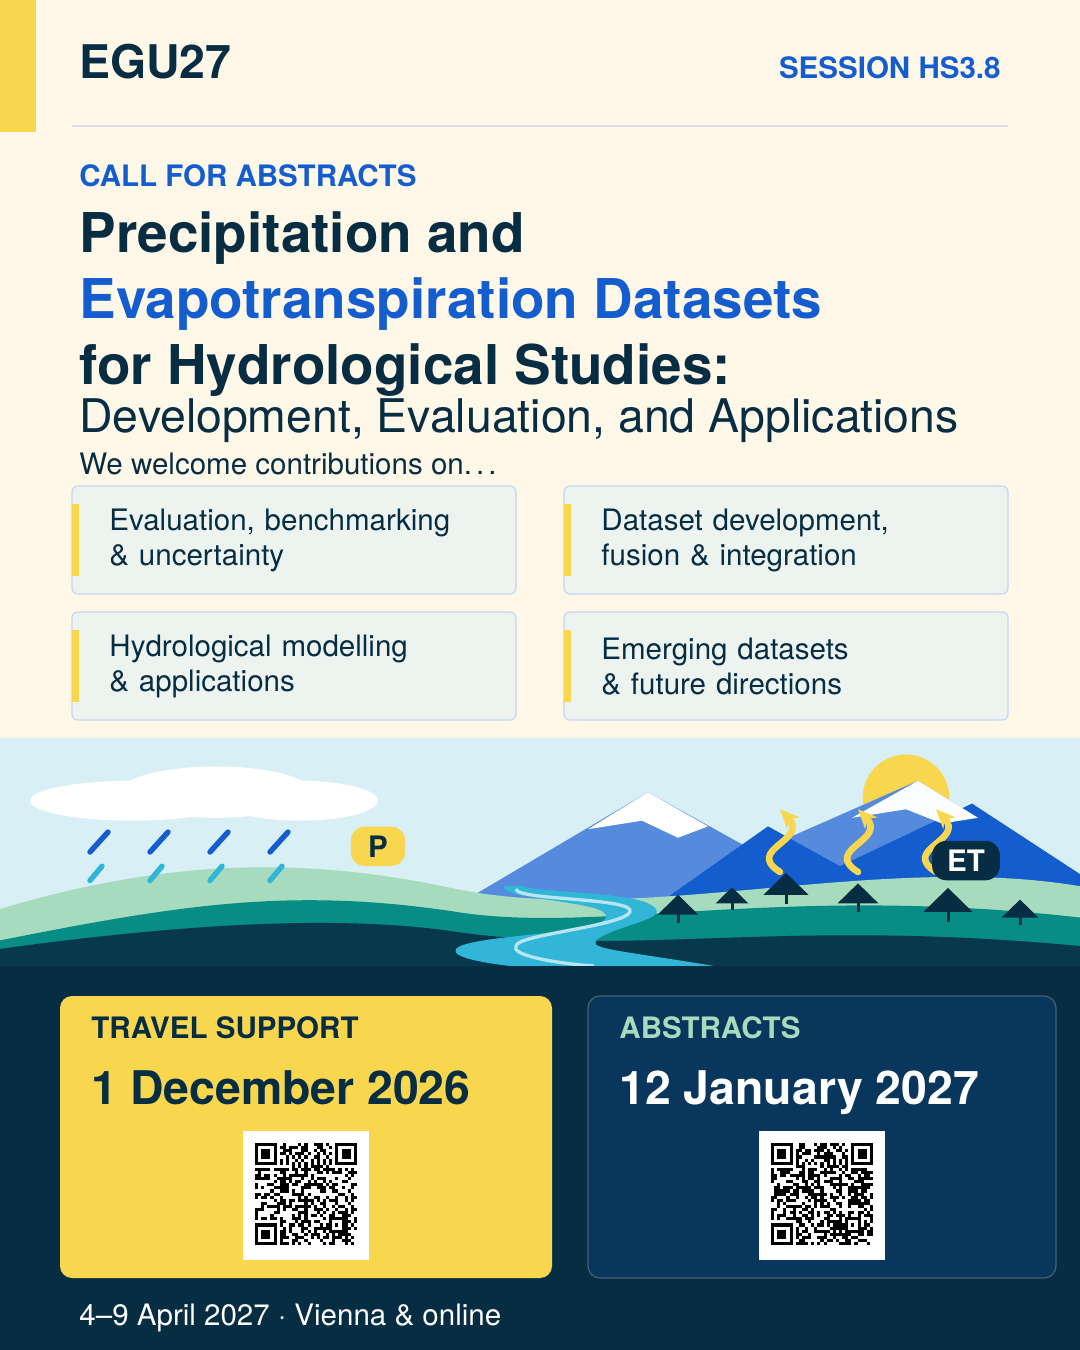
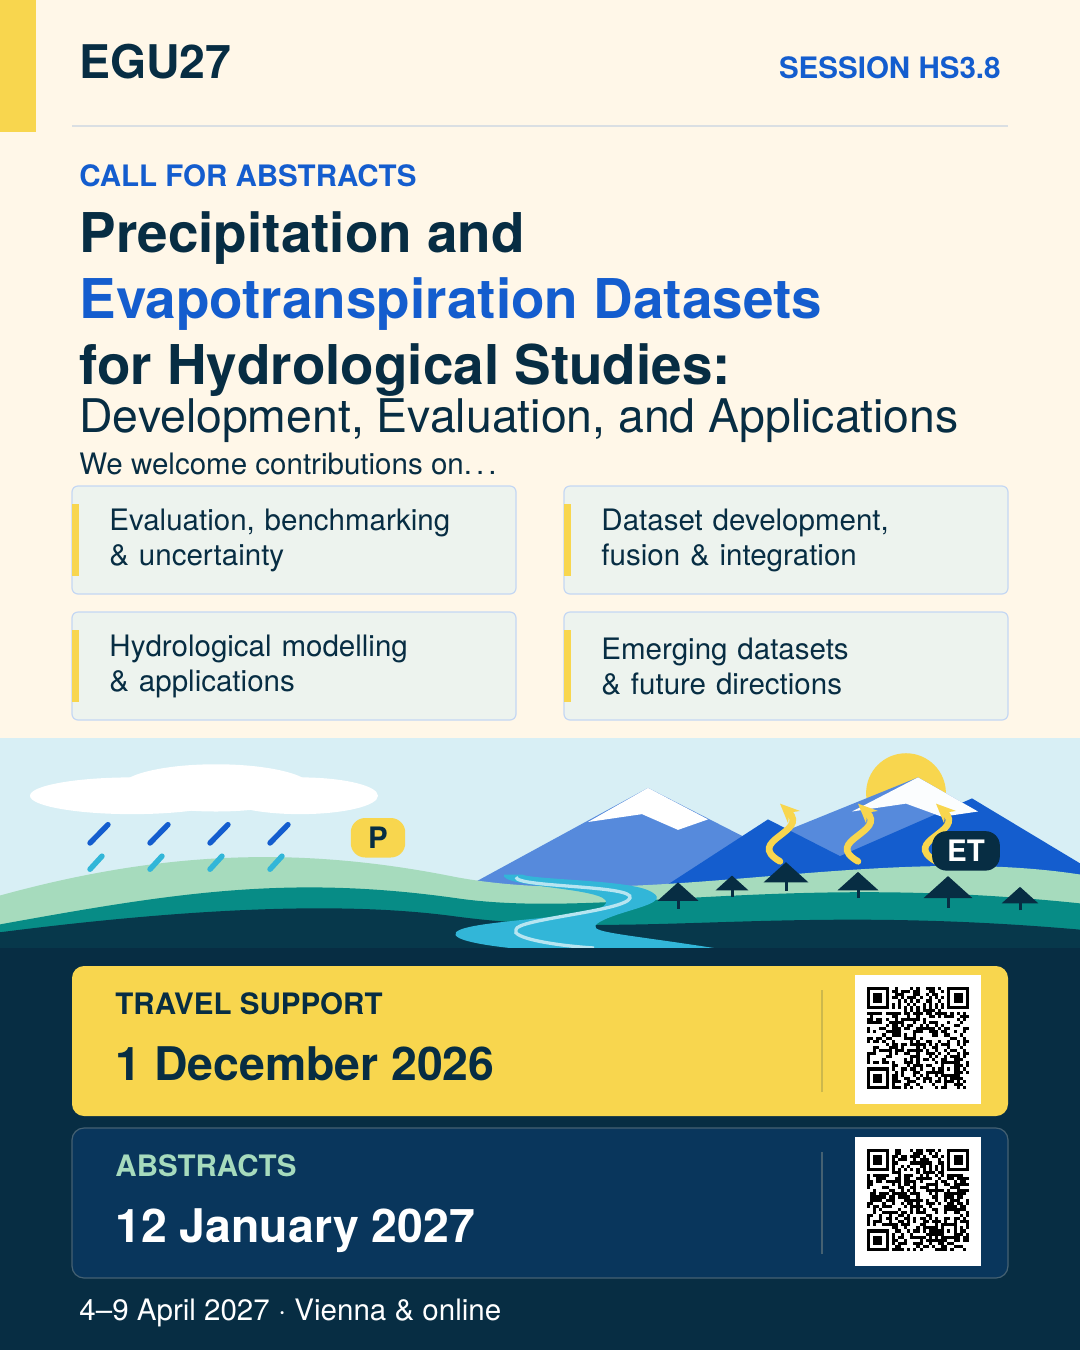
Refine Instagram deadline panels and QR alignment
Use matched horizontal panels with aligned deadline text, dedicated QR areas and consistent padding. Preserve yellow travel-support emphasis, one font family and three sizes. Inspected the final render, decoded both QR codes and passed packaging validation.

AI assistance: GPT-6 (Codex).

Changed region(s): [[0.0, 0.56, 1.0, 0.9956]]

diff --git a/site/index.html b/site/index.html
@@ -131,7 +131,7 @@
           <div class="section-heading"><div><p class="eyebrow dark-eyebrow">Spread the word</p><h2 id="downloads-title">Campaign downloads</h2></div><p>Social graphics, ready-to-share copy,<br>and editable LaTeX source.</p></div>
           <div class="downloads-grid">
             <article class="download-card">
-              <a class="asset-preview portrait-preview" href="downloads/egu27-hs38-instagram.png" aria-label="View the Instagram graphic"><img src="downloads/egu27-hs38-instagram.png?v=4ad8f655ccdc" width="1080" height="1350" loading="lazy" alt="EGU27 HS3.8 call for abstracts on precipitation and evapotranspiration datasets for hydrological studies. Abstract deadline: 12 January 2027, 13:00 CET."></a>
+              <a class="asset-preview portrait-preview" href="downloads/egu27-hs38-instagram.png" aria-label="View the Instagram graphic"><img src="downloads/egu27-hs38-instagram.png?v=3405bd5f0ac4" width="1080" height="1350" loading="lazy" alt="EGU27 HS3.8 call for abstracts on precipitation and evapotranspiration datasets for hydrological studies. Abstract deadline: 12 January 2027, 13:00 CET."></a>
               <div class="download-card-bottom"><div><h3>Instagram</h3><p>Portrait · 1080 × 1350</p></div><div class="download-links"><a href="downloads/egu27-hs38-instagram.png" download>PNG <span aria-hidden="true">↓</span></a><a href="downloads/egu27-hs38-instagram.pdf" download>PDF <span aria-hidden="true">↓</span></a></div></div>
             </article>
             <article class="download-card">

diff --git a/docs/history.md b/docs/history.md
@@ -26,3 +26,5 @@
 - Added small labelled vector QR codes to the Instagram footer for abstract submission/session information and travel support, retaining clickable PDF links and the three-size typography system.
 
 - Integrated Instagram QR codes into the corresponding travel-support and abstract deadline panels and removed the displayed deadline times from this banner.
+
+- Refined the Instagram footer into two matched horizontal deadline panels, aligning dates on the left and QR codes on the right, with consistent padding and more space around the conference line.
